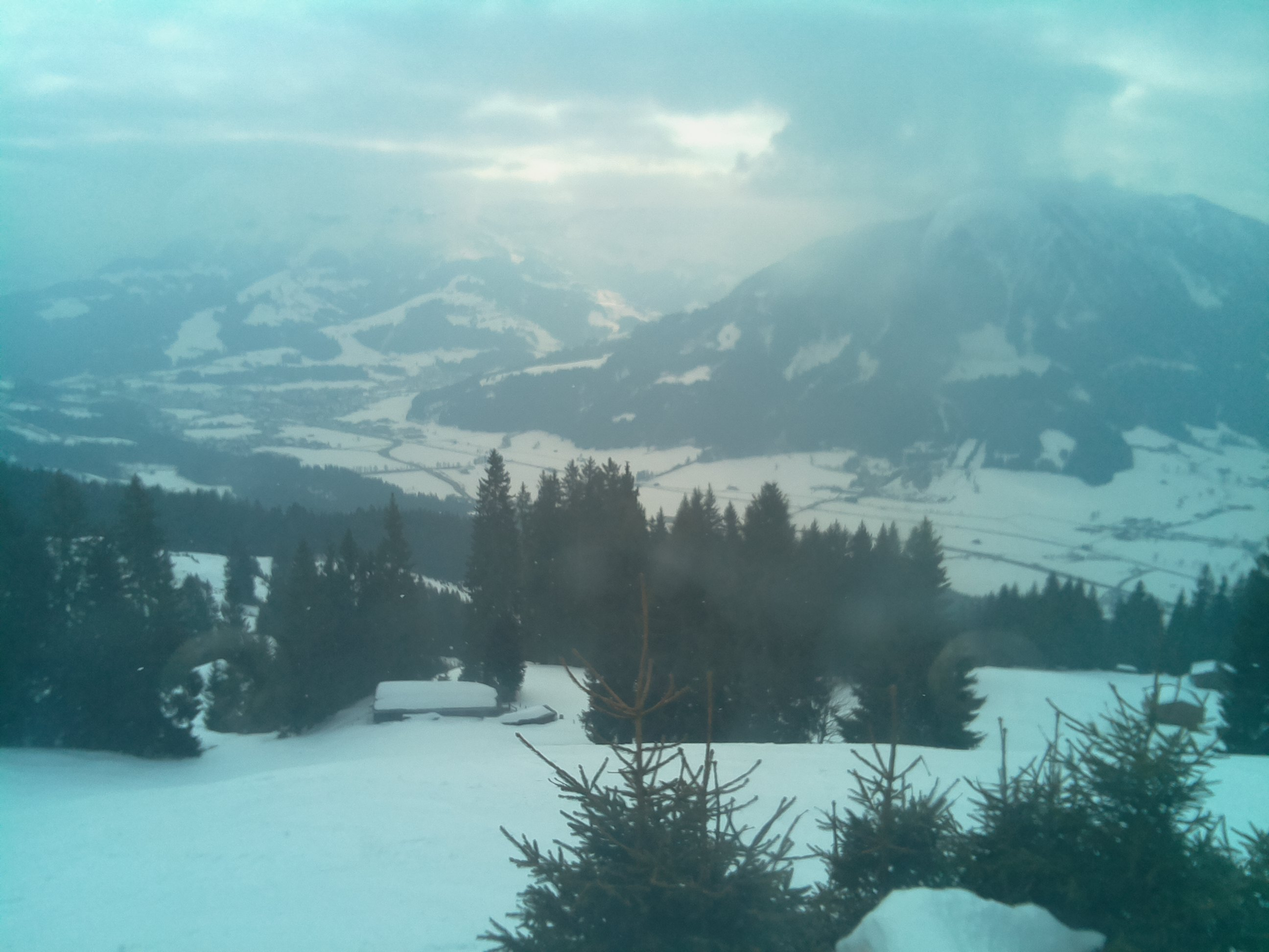
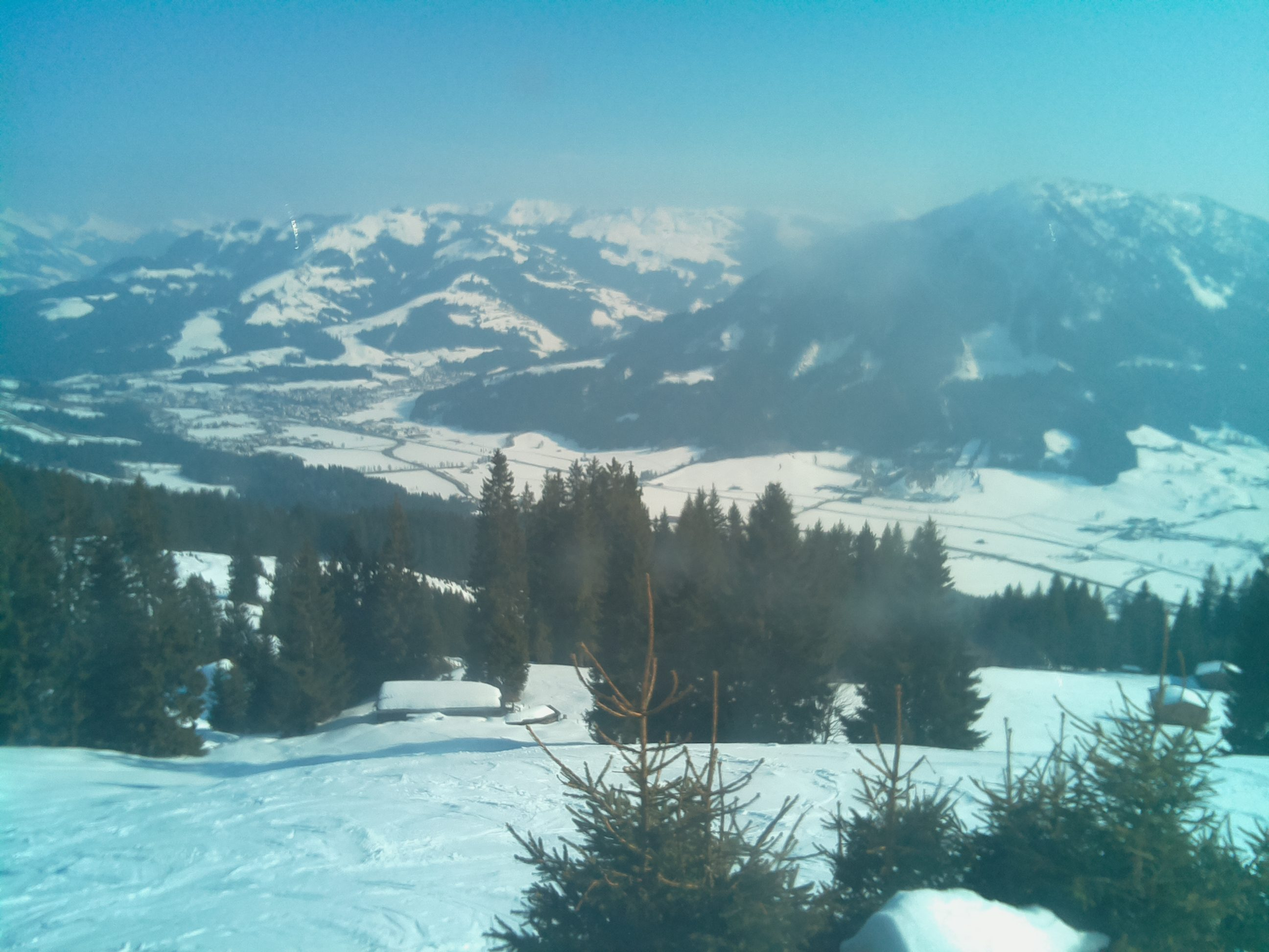
I'm a bot beep boop

diff --git a/resources/huette.md b/resources/huette.md
@@ -6,13 +6,13 @@ image: '/assets/img/'
 description: 'Live image from the Austrian alps'
 twitter_text: ' '
 ---
-## Latest image from 07 March 2022 at  9:11
+## Latest image from 07 March 2022 at 15:11
 <div class="huette">
   <div class="huette-image">
     <img src="{{ "/assets/img/huette.jpg" | prepend: site.baseurl }}">
   </div>
   <div class="huette-text">
-        <h2>Current Temperature: -4.75°C</h2>
+        <h2>Current Temperature: 0.312°C</h2>
         <p>A solar powered raspberry pi left alone in the wild is sending daily images and temperature data to this website. It should give you an impression about the current weather in the "Brixental".</p>
 
   </div>

diff --git a/rpi-script/huette.md b/rpi-script/huette.md
@@ -6,13 +6,13 @@ image: '/assets/img/'
 description: 'Live image from the Austrian alps'
 twitter_text: ' '
 ---
-## Latest image from 07 March 2022 at  9:11
+## Latest image from 07 March 2022 at 15:11
 <div class="huette">
   <div class="huette-image">
     <img src="{{ "/assets/img/huette.jpg" | prepend: site.baseurl }}">
   </div>
   <div class="huette-text">
-        <h2>Current Temperature: -4.75°C</h2>
+        <h2>Current Temperature: 0.312°C</h2>
         <p>A solar powered raspberry pi left alone in the wild is sending daily images and temperature data to this website. It should give you an impression about the current weather in the "Brixental".</p>
 
   </div>
